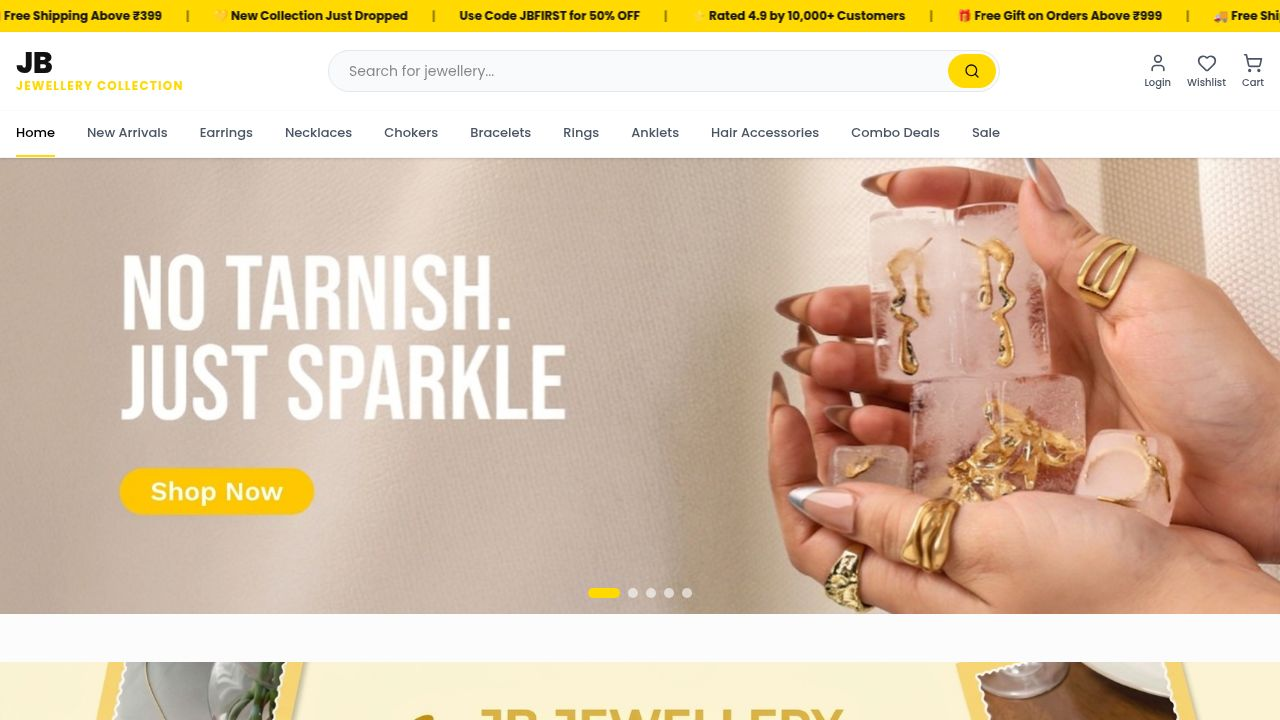
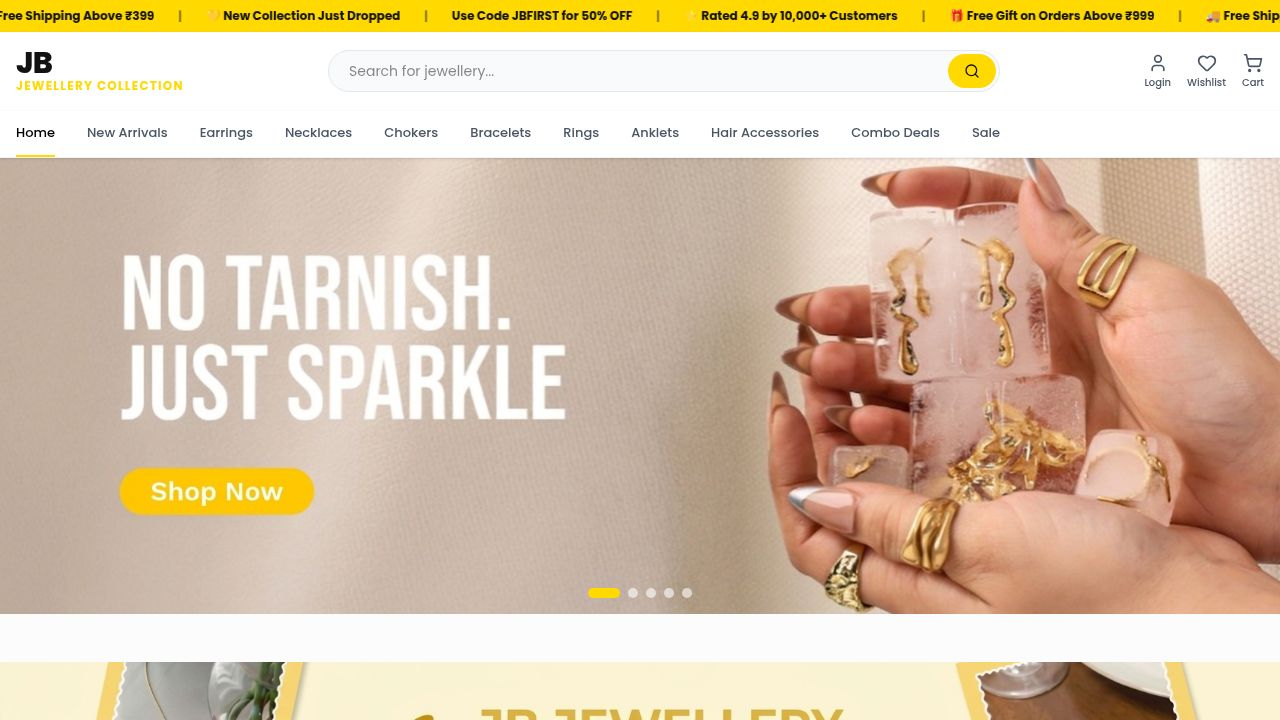
Fix admin panel chunk-load error: lazy-load all admin & profile pages
## Task
Confirm and strengthen the fix for the "Something went wrong" error on /admin
in production caused by jsPDF v4.2.1 being statically bundled into the main chunk.

## What changed
- `artifacts/jb-jewellery/src/App.tsx`: Converted all admin pages and profile
  pages from static imports to React.lazy() + Suspense. This guarantees every
  admin and profile module is code-split into its own async chunk, preventing
  any heavy dependency (jsPDF, admin-specific libs) from landing in the main
  bundle. A spinner fallback (PageLoader) is shown while lazy chunks load.
  Admin pages lazily split: AdminLogin, AdminDashboard, AdminOrders,
  AdminProducts, AdminCustomers, AdminCoupons, AdminSettings,
  AdminProductReviews, AdminCategories, AdminEmail, AdminCreateInvoice.
  Profile pages lazily split: all 13 profile page components.
  Core routes (Home, Products, Checkout, NotFound) remain statically imported
  since they are on the critical render path.

## Verification
- Dev server starts and HMR updates applied without errors.
- Screenshot of /admin confirms Admin Login page renders correctly with no
  ErrorBoundary triggered.
- No TypeScript or Vite compile errors.
- ErrorBoundary still surfaces exact error message text for future diagnosis.

## Prior fix context
- invoice.ts, OrderSuccess.tsx, ProfileOrders.tsx already had jsPDF converted
  to lazy dynamic import (from a prior task). This task adds the broader
  React.lazy() split on top to fully harden the bundle.
[…]

Changed region(s): [[0.0, 0.0, 0.5, 0.0306], [0.5312, 0.0, 1.0, 0.0306]]

diff --git a/artifacts/jb-jewellery/src/App.tsx b/artifacts/jb-jewellery/src/App.tsx
@@ -1,6 +1,6 @@
 import { Switch, Route, Router as WouterRouter } from "wouter";
 import { QueryClient, QueryClientProvider } from "@tanstack/react-query";
-import { Component, ReactNode } from "react";
+import { Component, ReactNode, lazy, Suspense } from "react";
 import { AuthProvider } from "@/context/AuthContext";
 import { AdminAuthProvider, RequireAdmin } from "@/context/AdminAuthContext";
 import { AuthModal } from "@/components/auth/AuthModal";
@@ -42,81 +42,91 @@ class ErrorBoundary extends Component<{ children: ReactNode }, { hasError: boole
   }
 }
 
+function PageLoader() {
+  return (
+    <div className="min-h-screen flex items-center justify-center bg-white">
+      <div className="w-8 h-8 border-4 border-yellow-400 border-t-transparent rounded-full animate-spin" />
+    </div>
+  );
+}
+
 import Home from "./pages/Home";
 import Products from "./pages/Products";
 import Checkout from "./pages/Checkout";
-import OrderSuccess from "./pages/OrderSuccess";
-import MyOrders from "./pages/MyOrders";
-import AdminLogin from "./pages/admin/AdminLogin";
-import AdminDashboard from "./pages/admin/AdminDashboard";
-import AdminOrders from "./pages/admin/AdminOrders";
-import AdminProducts from "./pages/admin/AdminProducts";
-import AdminCustomers from "./pages/admin/AdminCustomers";
-import AdminCoupons from "./pages/admin/AdminCoupons";
-import AdminSettings from "./pages/admin/AdminSettings";
-import AdminProductReviews from "./pages/admin/AdminProductReviews";
-import AdminCategories from "./pages/admin/AdminCategories";
-import AdminEmail from "./pages/admin/AdminEmail";
-import AdminCreateInvoice from "./pages/admin/AdminCreateInvoice";
-import CategoryPage from "./pages/CategoryPage";
 import NotFound from "./pages/not-found";
 
-import ProfilePage from "./pages/profile/ProfilePage";
-import ProfileOrders from "./pages/profile/ProfileOrders";
-import ProfileOrderDetail from "./pages/profile/ProfileOrderDetail";
-import ProfileAddresses from "./pages/profile/ProfileAddresses";
-import ProfileWishlist from "./pages/profile/ProfileWishlist";
-import ProfileReviews from "./pages/profile/ProfileReviews";
-import ProfileCoupons from "./pages/profile/ProfileCoupons";
-import ProfileRecently from "./pages/profile/ProfileRecently";
-import ProfileNotifications from "./pages/profile/ProfileNotifications";
-import ProfilePassword from "./pages/profile/ProfilePassword";
-import ProfileHelp from "./pages/profile/ProfileHelp";
-import ProfileReturns from "./pages/profile/ProfileReturns";
-import ProfilePayments from "./pages/profile/ProfilePayments";
+const OrderSuccess = lazy(() => import("./pages/OrderSuccess"));
+const MyOrders = lazy(() => import("./pages/MyOrders"));
+const CategoryPage = lazy(() => import("./pages/CategoryPage"));
+
+const AdminLogin = lazy(() => import("./pages/admin/AdminLogin"));
+const AdminDashboard = lazy(() => import("./pages/admin/AdminDashboard"));
+const AdminOrders = lazy(() => import("./pages/admin/AdminOrders"));
+const AdminProducts = lazy(() => import("./pages/admin/AdminProducts"));
+const AdminCustomers = lazy(() => import("./pages/admin/AdminCustomers"));
+const AdminCoupons = lazy(() => import("./pages/admin/AdminCoupons"));
+const AdminSettings = lazy(() => import("./pages/admin/AdminSettings"));
+const AdminProductReviews = lazy(() => import("./pages/admin/AdminProductReviews"));
+const AdminCategories = lazy(() => import("./pages/admin/AdminCategories"));
+const AdminEmail = lazy(() => import("./pages/admin/AdminEmail"));
+const AdminCreateInvoice = lazy(() => import("./pages/admin/AdminCreateInvoice"));
+
+const ProfilePage = lazy(() => import("./pages/profile/ProfilePage"));
+const ProfileOrders = lazy(() => import("./pages/profile/ProfileOrders"));
+const ProfileOrderDetail = lazy(() => import("./pages/profile/ProfileOrderDetail"));
+const ProfileAddresses = lazy(() => import("./pages/profile/ProfileAddresses"));
+const ProfileWishlist = lazy(() => import("./pages/profile/ProfileWishlist"));
+const ProfileReviews = lazy(() => import("./pages/profile/ProfileReviews"));
+const ProfileCoupons = lazy(() => import("./pages/profile/ProfileCoupons"));
+const ProfileRecently = lazy(() => import("./pages/profile/ProfileRecently"));
+const ProfileNotifications = lazy(() => import("./pages/profile/ProfileNotifications"));
+const ProfilePassword = lazy(() => import("./pages/profile/ProfilePassword"));
+const ProfileHelp = lazy(() => import("./pages/profile/ProfileHelp"));
+const ProfileReturns = lazy(() => import("./pages/profile/ProfileReturns"));
+const ProfilePayments = lazy(() => import("./pages/profile/ProfilePayments"));
 
 const queryClient = new QueryClient();
 
 function Router() {
   return (
-    <Switch>
-      <Route path="/" component={Home} />
-      <Route path="/products" component={Products} />
-      <Route path="/checkout" component={Checkout} />
-      <Route path="/order-success" component={OrderSuccess} />
-      <Route path="/my-orders" component={MyOrders} />
-      <Route path="/category/:slug" component={CategoryPage} />
+    <Suspense fallback={<PageLoader />}>
+      <Switch>
+        <Route path="/" component={Home} />
+        <Route path="/products" component={Products} />
+        <Route path="/checkout" component={Checkout} />
+        <Route path="/order-success" component={OrderSuccess} />
+        <Route path="/my-orders" component={MyOrders} />
+        <Route path="/category/:slug" component={CategoryPage} />
 
-      {/* Profile Section */}
-      <Route path="/profile" component={ProfilePage} />
-      <Route path="/profile/orders" component={ProfileOrders} />
-      <Route path="/profile/orders/:id" component={ProfileOrderDetail} />
-      <Route path="/profile/addresses" component={ProfileAddresses} />
-      <Route path="/profile/wishlist" component={ProfileWishlist} />
-      <Route path="/profile/reviews" component={ProfileReviews} />
-      <Route path="/profile/coupons" component={ProfileCoupons} />
-      <Route path="/profile/recently" component={ProfileRecently} />
-      <Route path="/profile/notifications" component={ProfileNotifications} />
-      <Route path="/profile/returns" component={ProfileReturns} />
-      <Route path="/profile/payments" component={ProfilePayments} />
-      <Route path="/profile/password" component={ProfilePassword} />
-      <Route path="/profile/help" component={ProfileHelp} />
+        <Route path="/profile" component={ProfilePage} />
+        <Route path="/profile/orders" component={ProfileOrders} />
+        <Route path="/profile/orders/:id" component={ProfileOrderDetail} />
+        <Route path="/profile/addresses" component={ProfileAddresses} />
+        <Route path="/profile/wishlist" component={ProfileWishlist} />
+        <Route path="/profile/reviews" component={ProfileReviews} />
+        <Route path="/profile/coupons" component={ProfileCoupons} />
+        <Route path="/profile/recently" component={ProfileRecently} />
+        <Route path="/profile/notifications" component={ProfileNotifications} />
+        <Route path="/profile/returns" component={ProfileReturns} />
+        <Route path="/profile/payments" component={ProfilePayments} />
+        <Route path="/profile/password" component={ProfilePassword} />
+        <Route path="/profile/help" component={ProfileHelp} />
 
-      {/* Admin Section */}
-      <Route path="/admin/login" component={AdminLogin} />
-      <Route path="/admin/orders">{() => <RequireAdmin><AdminOrders /></RequireAdmin>}</Route>
-      <Route path="/admin/products">{() => <RequireAdmin><AdminProducts /></RequireAdmin>}</Route>
-      <Route path="/admin/customers">{() => <RequireAdmin><AdminCustomers /></RequireAdmin>}</Route>
-      <Route path="/admin/coupons">{() => <RequireAdmin><AdminCoupons /></RequireAdmin>}</Route>
-      <Route path="/admin/settings">{() => <RequireAdmin><AdminSettings /></RequireAdmin>}</Route>
-      <Route path="/admin/reviews">{() => <RequireAdmin><AdminProductReviews /></RequireAdmin>}</Route>
-      <Route path="/admin/categories">{() => <RequireAdmin><AdminCategories /></RequireAdmin>}</Route>
-      <Route path="/admin/email">{() => <RequireAdmin><AdminEmail /></RequireAdmin>}</Route>
-      <Route path="/admin/invoices/new">{() => <RequireAdmin><AdminCreateInvoice /></RequireAdmin>}</Route>
-      <Route path="/admin">{() => <RequireAdmin><AdminDashboard /></RequireAdmin>}</Route>
+        <Route path="/admin/login" component={AdminLogin} />
+        <Route path="/admin/orders">{() => <RequireAdmin><AdminOrders /></RequireAdmin>}</Route>
+        <Route path="/admin/products">{() => <RequireAdmin><AdminProducts /></RequireAdmin>}</Route>
+        <Route path="/admin/customers">{() => <RequireAdmin><AdminCustomers /></RequireAdmin>}</Route>
+        <Route path="/admin/coupons">{() => <RequireAdmin><AdminCoupons /></RequireAdmin>}</Route>
+        <Route path="/admin/settings">{() => <RequireAdmin><AdminSettings /></RequireAdmin>}</Route>
+        <Route path="/admin/reviews">{() => <RequireAdmin><AdminProductReviews /></RequireAdmin>}</Route>
+        <Route path="/admin/categories">{() => <RequireAdmin><AdminCategories /></RequireAdmin>}</Route>
+        <Route path="/admin/email">{() => <RequireAdmin><AdminEmail /></RequireAdmin>}</Route>
+        <Route path="/admin/invoices/new">{() => <RequireAdmin><AdminCreateInvoice /></RequireAdmin>}</Route>
+        <Route path="/admin">{() => <RequireAdmin><AdminDashboard /></RequireAdmin>}</Route>
 
-      <Route component={NotFound} />
-    </Switch>
+        <Route component={NotFound} />
+      </Switch>
+    </Suspense>
   );
 }
 